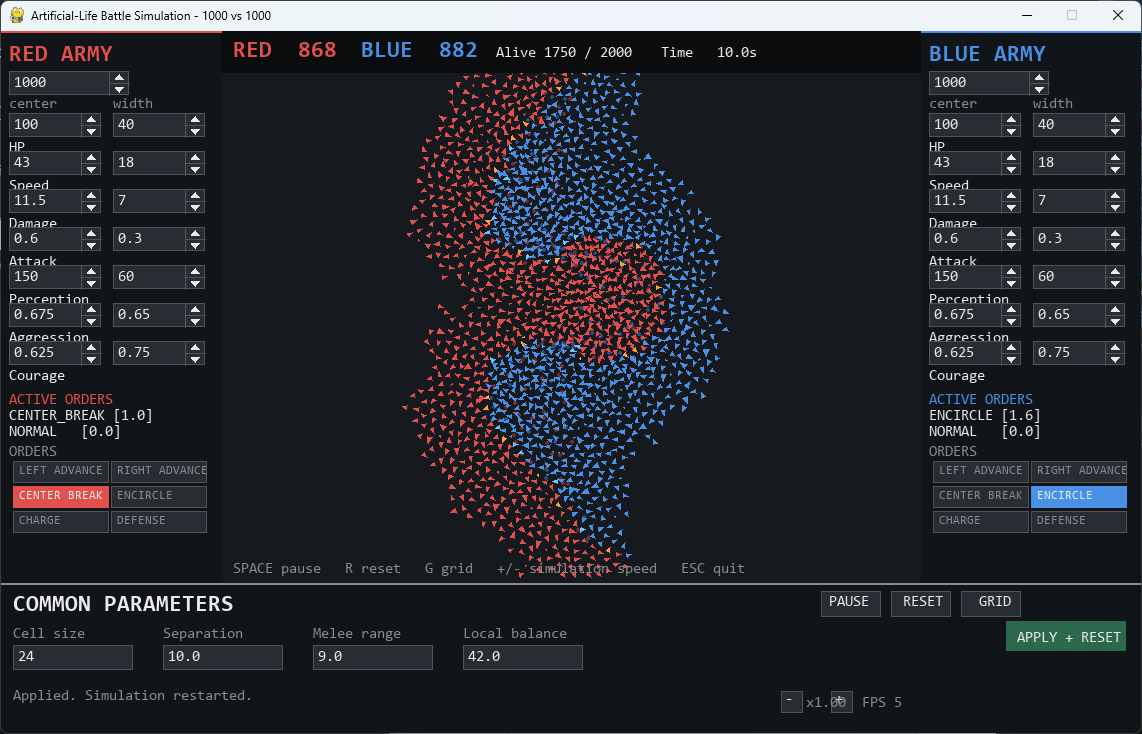
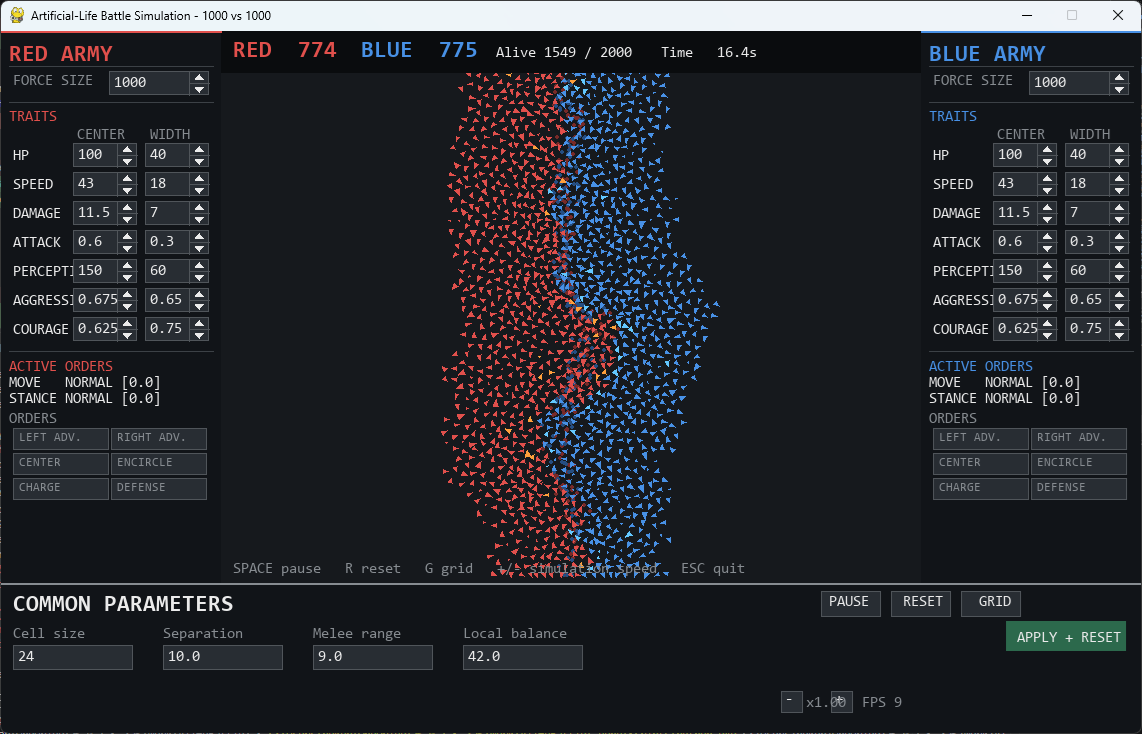
Improve army panel layout and labels

diff --git a/alife_battle.py b/alife_battle.py
@@ -705,11 +705,10 @@ def format_value(value):
 
 def create_team_fields(x, config, font):
     fields = {}
-    # Move parameters down to avoid overlapping the team-size field and headers
-    start_y = 82
+    start_y = 112
 
     for index, (label, key) in enumerate(PARAMETER_NAMES):
-        y = start_y + index * 38
+        y = start_y + index * 29
         step = PARAMETER_STEPS[key]
 
         # display as center and width instead of min/max
@@ -718,12 +717,12 @@ def create_team_fields(x, config, font):
         width = max(0.0, vmax - vmin)
         fields[key] = (
             InputField(
-                (x + 8, y, 92, 24),
+                (x + 72, y, 64, 24),
                 format_value(center),
                 step,
             ),
             InputField(
-                (x + 112, y, 92, 24),
+                (x + 144, y, 64, 24),
                 format_value(width),
                 step,
             ),
@@ -747,34 +746,47 @@ def draw_order_state(screen, rect, team, sim, team_color, small_font):
     maneuver_remaining = sim.maneuver_turns_remaining.get(team, 0.0)
     stance_remaining = sim.stance_turns_remaining.get(team, 0.0)
 
-    screen.blit(small_font.render("ACTIVE ORDERS", True, team_color), (rect.x + 8, rect.y + 361))
-    screen.blit(small_font.render(f"{maneuver_name} [{maneuver_remaining:.1f}]", True, WHITE), (rect.x + 8, rect.y + 377))
-    screen.blit(small_font.render(f"{stance_name}   [{stance_remaining:.1f}]", True, WHITE), (rect.x + 8, rect.y + 393))
+    screen.blit(small_font.render("ACTIVE ORDERS", True, team_color), (rect.x + 8, rect.y + 328))
+    screen.blit(small_font.render(f"MOVE   {maneuver_name} [{maneuver_remaining:.1f}]", True, WHITE), (rect.x + 8, rect.y + 344))
+    screen.blit(small_font.render(f"STANCE {stance_name} [{stance_remaining:.1f}]", True, WHITE), (rect.x + 8, rect.y + 360))
 
 
 def draw_team_panel(screen, rect, title, color, fields, font, small_font, order_font, sim, team, order_buttons):
     pygame.draw.rect(screen, (17, 20, 24), rect)
     pygame.draw.line(screen, color, rect.topleft, rect.topright, 3)
     screen.blit(font.render(title, True, color), (rect.x + 8, rect.y + 12))
-    screen.blit(small_font.render("center       width", True, GRAY), (rect.x + 8, rect.y + 65))
+    pygame.draw.line(screen, (60, 65, 70), (rect.x + 8, rect.y + 35), (rect.right - 8, rect.y + 35), 1)
+    screen.blit(small_font.render("FORCE SIZE", True, GRAY), (rect.x + 12, rect.y + 42))
+    pygame.draw.line(screen, (60, 65, 70), (rect.x + 8, rect.y + 71), (rect.right - 8, rect.y + 71), 1)
+    screen.blit(small_font.render("TRAITS", True, color), (rect.x + 8, rect.y + 78))
+    screen.blit(small_font.render("CENTER", True, GRAY), (rect.x + 76, rect.y + 96))
+    screen.blit(small_font.render("WIDTH", True, GRAY), (rect.x + 149, rect.y + 96))
     for label, key in PARAMETER_NAMES:
         left, right = fields[key]
         y = left.rect.y
-        screen.blit(small_font.render(label, True, WHITE), (rect.x + 8, y + 27))
+        screen.blit(small_font.render(label.upper(), True, WHITE), (rect.x + 12, y + 5))
         for field in (left, right):
             field.draw(screen, small_font, color)
     team_size_field = fields.get("team_size")
     if team_size_field is not None:
-        screen.blit(small_font.render("Team size", True, WHITE), (rect.x + 8, rect.y + 40))
         team_size_field.draw(screen, small_font, color)
 
-    screen.blit(small_font.render("ORDERS", True, GRAY), (rect.x + 8, rect.y + 413))
+    pygame.draw.line(screen, (60, 65, 70), (rect.x + 8, rect.y + 320), (rect.right - 8, rect.y + 320), 1)
+    screen.blit(small_font.render("ORDERS", True, GRAY), (rect.x + 8, rect.y + 380))
     for order_name, btn_rect in order_buttons.items():
         is_active = (
             (order_name in MANEUVER_COMMANDS and sim.team_maneuver.get(team) == order_name)
             or (order_name in STANCE_COMMANDS and sim.team_stance.get(team) == order_name)
         )
-        draw_order_button(screen, btn_rect, order_name.replace("_", " "), is_active, color, order_font)
+        order_labels = {
+            "LEFT_ADVANCE": "LEFT ADV.",
+            "RIGHT_ADVANCE": "RIGHT ADV.",
+            "CENTER_BREAK": "CENTER",
+            "ENCIRCLE": "ENCIRCLE",
+            "CHARGE": "CHARGE",
+            "DEFENSE": "DEFENSE",
+        }
+        draw_order_button(screen, btn_rect, order_labels[order_name], is_active, color, order_font)
 
     draw_order_state(screen, rect, team, sim, color, small_font)
 
@@ -915,8 +927,8 @@ def main():
     red_fields = create_team_fields(0, red_config, small_font)
     blue_fields = create_team_fields(WIDTH - PANEL_WIDTH, blue_config, small_font)
     # Team-size fields per team (moved from common panel)
-    red_team_size_field = InputField((8, 40, 120, 24), common_config.red_team_size, 1)
-    blue_team_size_field = InputField((WIDTH - PANEL_WIDTH + 8, 40, 120, 24), common_config.blue_team_size, 1)
+    red_team_size_field = InputField((108, 40, 100, 24), common_config.red_team_size, 1)
+    blue_team_size_field = InputField((WIDTH - PANEL_WIDTH + 108, 40, 100, 24), common_config.blue_team_size, 1)
     # attach to fields dict for unified handling
     red_fields["team_size"] = red_team_size_field
     blue_fields["team_size"] = blue_team_size_field
@@ -948,11 +960,11 @@ def main():
     show_grid = False
     status = ""
     red_order_buttons = {
-        name: pygame.Rect(12 + (index % 2) * 98, 430 + (index // 2) * 25, 96, 22)
+        name: pygame.Rect(12 + (index % 2) * 98, 397 + (index // 2) * 25, 96, 22)
         for index, name in enumerate(MANEUVER_COMMANDS + STANCE_COMMANDS)
     }
     blue_order_buttons = {
-        name: pygame.Rect(WIDTH - PANEL_WIDTH + 12 + (index % 2) * 98, 430 + (index // 2) * 25, 96, 22)
+        name: pygame.Rect(WIDTH - PANEL_WIDTH + 12 + (index % 2) * 98, 397 + (index // 2) * 25, 96, 22)
         for index, name in enumerate(MANEUVER_COMMANDS + STANCE_COMMANDS)
     }
     apply_rect = pygame.Rect(WIDTH - 135, WORLD_HEIGHT + 38, 120, 30)
